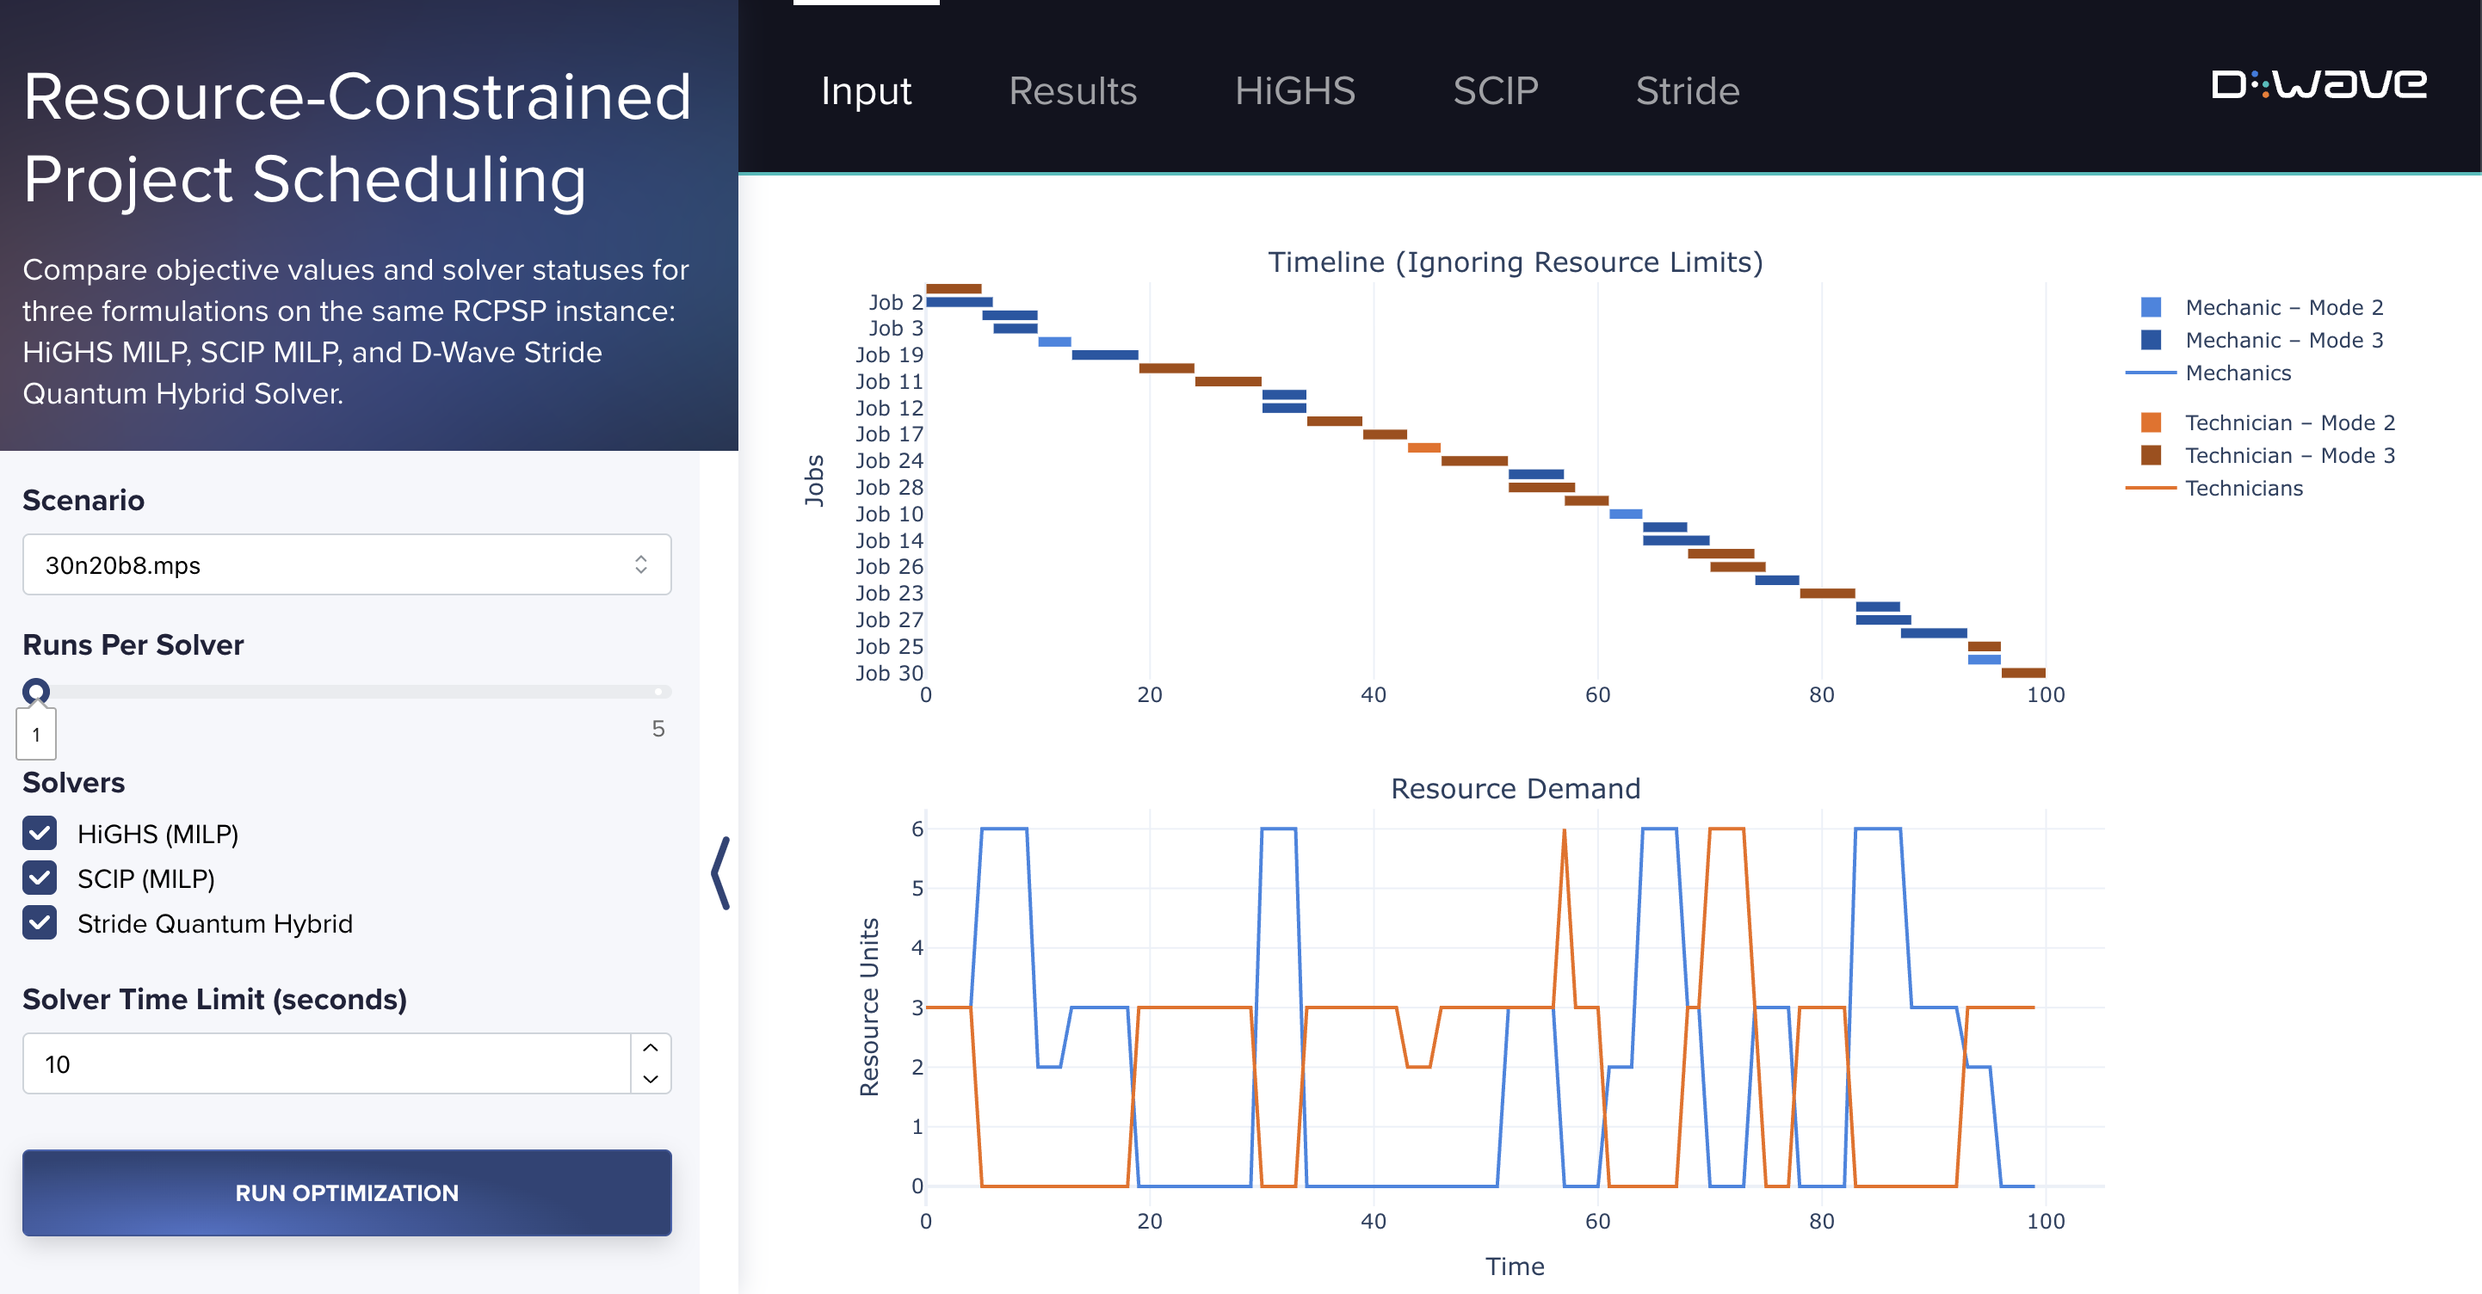
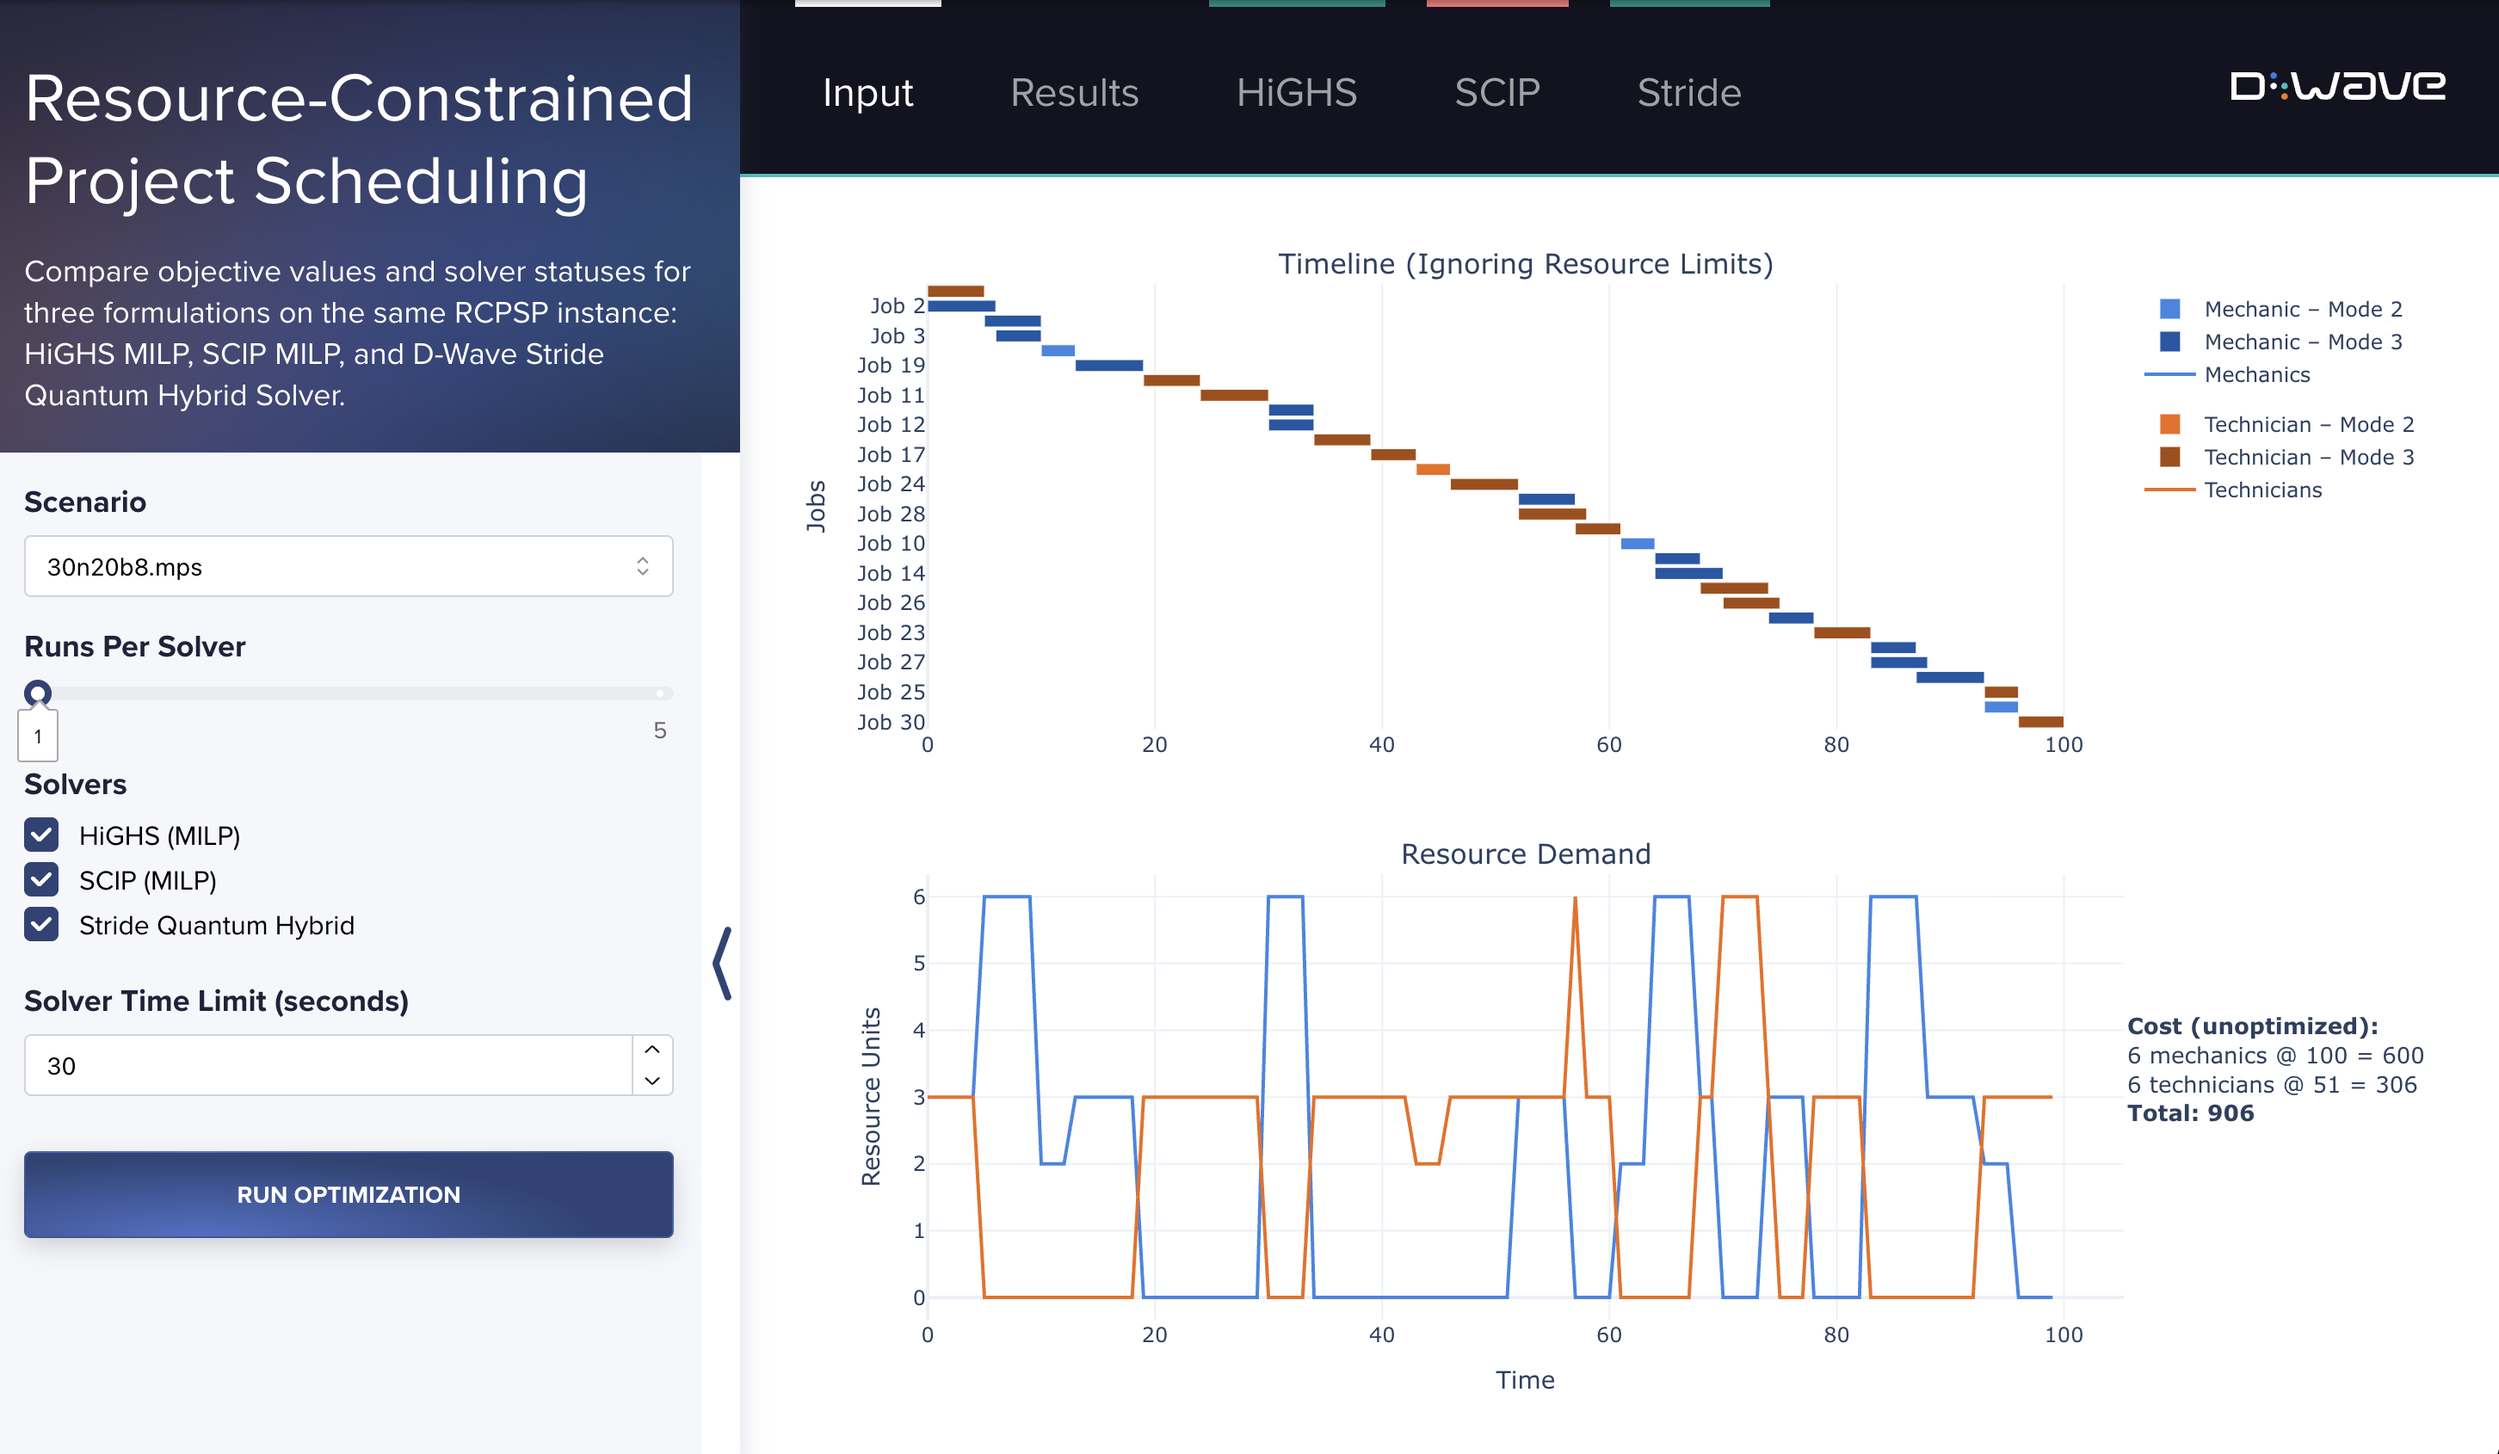
Adding cost comparison

diff --git a/assets/demo.css b/assets/demo.css
@@ -73,21 +73,6 @@ custom CSS can be added below.
     font-weight: 500;
 }
 
-.results-layout {
-    display: flex;
-    gap: 2rem;
-    align-items: flex-start;
-}
-
-.results-layout__graph {
-    flex: 1 1 0;
-    min-width: 0;
-}
-
-.results-layout__table {
-    flex: 0 0 auto;
-}
-
 .row-highlight-best {
     background-color: rgba(23, 190, 187, 0.42);
 }

diff --git a/src/plot.py b/src/plot.py
@@ -15,6 +15,7 @@
 from __future__ import annotations
 
 from collections import defaultdict, deque
+import math
 from pathlib import Path
 
 import plotly.graph_objects as go
@@ -41,6 +42,28 @@ _SOLVER_COLORS = {
     "SCIP": "#2d4376",
     "Stride": "#17BEBB",
 }
+
+
+def _hiring_cost_text(r_m: int, r_t: int, mech_rate: float, tech_rate: float) -> str:
+    """Return an HTML hiring cost breakdown for use in a Plotly annotation.
+
+    Args:
+        r_m: Number of mechanics hired.
+        r_t: Number of technicians hired.
+        mech_rate: Cost per mechanic.
+        tech_rate: Cost per technician.
+
+    Returns:
+        A three-line HTML string with per-resource costs and a bold total.
+    """
+    mech_cost = int(r_m * mech_rate)
+    tech_cost = int(r_t * tech_rate)
+    total = mech_cost + tech_cost
+    return (
+        f"{r_m} mechanics @ {int(mech_rate)} = {mech_cost}<br>"
+        f"{r_t} technicians @ {int(tech_rate)} = {tech_cost}<br>"
+        f"<b>Total: {total}</b>"
+    )
 
 
 def _choose_business_mode(job: int, profile: dict) -> int:
@@ -183,6 +206,10 @@ def build_input_graph(input_path: str) -> go.Figure:
             mech_demand[t] += mech_use
             tech_demand[t] += tech_use
 
+    hire_rates = profile.get("hire_rates", {"Mechaniker": 100.0, "Techniker": 51.0})
+    r_m = math.ceil(max(mech_demand, default=0))
+    r_t = math.ceil(max(tech_demand, default=0))
+
     fig = make_subplots(
         rows=2,
         cols=1,
@@ -269,7 +296,7 @@ def build_input_graph(input_path: str) -> go.Figure:
 
     fig.update_layout(
         template="plotly_white",
-        margin={"l": 20, "r": 20, "t": 30, "b": 20},
+        margin={"l": 20, "r": 20, "t": 30, "b": 90},
         paper_bgcolor="white",
         plot_bgcolor="white",
         showlegend=True,
@@ -286,6 +313,21 @@ def build_input_graph(input_path: str) -> go.Figure:
         categoryarray=[f"Job {job}" for job in reversed(jobs_sorted)],
     )
     fig.update_yaxes(title_text="Resource Units", row=2, col=1)
+    fig.add_annotation(
+        text=(
+            "<b>Cost (unoptimized):</b><br>"
+            + _hiring_cost_text(r_m, r_t, hire_rates["Mechaniker"], hire_rates["Techniker"])
+        ),
+        xref="paper",
+        yref="paper",
+        x=1,
+        y=0.3,
+        showarrow=False,
+        align="left",
+        font={"size": 13},
+        xanchor="left",
+        yanchor="top",
+    )
 
     return fig
 
@@ -393,7 +435,7 @@ def build_comparison_graph(
     fig.update_layout(
         template="plotly_white",
         height=380,
-        margin={"l": 20, "r": 20, "t": 40, "b": 20},
+        margin={"l": 20, "r": 20, "t": 30, "b": 20},
         paper_bgcolor="white",
         plot_bgcolor="white",
         legend={"orientation": "h", "y": 1.15, "x": 0},
@@ -456,6 +498,10 @@ def build_solution_graph(
         for t in range(s_t, min(f_t, len(mech_demand))):
             mech_demand[t] += mech_use
             tech_demand[t] += tech_use
+
+    hire_rates = profile.get("hire_rates", {"Mechaniker": 100.0, "Techniker": 51.0})
+    r_m = math.ceil(max(mech_demand, default=0))
+    r_t = math.ceil(max(tech_demand, default=0))
 
     fig = make_subplots(
         rows=2,
@@ -544,7 +590,7 @@ def build_solution_graph(
     fig.update_layout(
         title=title,
         template="plotly_white",
-        margin={"l": 20, "r": 20, "t": 40, "b": 20},
+        margin={"l": 20, "r": 20, "t": 40, "b": 90},
         paper_bgcolor="white",
         plot_bgcolor="white",
         showlegend=True,
@@ -561,5 +607,20 @@ def build_solution_graph(
         categoryarray=[f"Job {job}" for job in reversed(jobs_sorted)],
     )
     fig.update_yaxes(title_text="Resource Units", row=2, col=1)
+    fig.add_annotation(
+        text=(
+            "<b>Hiring cost (optimized):</b><br>"
+            + _hiring_cost_text(r_m, r_t, hire_rates["Mechaniker"], hire_rates["Techniker"])
+        ),
+        xref="paper",
+        yref="paper",
+        x=1,
+        y=0.3,
+        showarrow=False,
+        align="left",
+        font={"size": 13},
+        xanchor="left",
+        yanchor="top",
+    )
 
     return fig

diff --git a/demo_interface.py b/demo_interface.py
@@ -363,6 +363,9 @@ def comparison_summary_table(
     summary_rows: list[dict],
     min_energy: int | float | None,
     known_optimal: int | float | None,
+    solver_peaks: dict[str, tuple[int, int]] | None = None,
+    mech_rate: int = 100,
+    tech_rate: int = 51,
 ) -> html.Table:
     """Build the highlighted Comparison Summary table.
 
@@ -375,6 +378,10 @@ def comparison_summary_table(
             row highlighting. Pass ``None`` if no feasible solutions exist.
         known_optimal: The known optimal objective value for the instance, or
             ``None`` if unknown.
+        solver_peaks: Mapping of formulation label → ``(peak_mechanics, peak_technicians)``
+            used to render the cost breakdown columns. Pass ``None`` to omit.
+        mech_rate: Cost per mechanic (default 100).
+        tech_rate: Cost per technician (default 51).
 
     Returns:
         An html.Table with styled rows and an ``(optimal)`` annotation where
@@ -396,7 +403,24 @@ def comparison_summary_table(
             return "row-highlight-best"
         return ""
 
-    headers = ["Formulation", "Runs", "OK Runs", "Best Energy", "Avg Energy"]
+    def fmt_peak(formulation: str, idx: int, rate: int) -> str:
+        if solver_peaks is None:
+            return "–"
+        peaks = solver_peaks.get(formulation)
+        if peaks is None:
+            return "–"
+        count = peaks[idx]
+        return f"{count * rate}"
+
+    headers = [
+        "Formulation",
+        "Runs",
+        "OK Runs",
+        "Mechanics Cost",
+        "Technicians Cost",
+        "Best Energy",
+        "Avg Energy",
+    ]
     return html.Table(
         className="problem-details-table",
         children=[
@@ -409,6 +433,8 @@ def comparison_summary_table(
                             html.Td(str(row["formulation"])),
                             html.Td(str(row["runs"])),
                             html.Td(str(row["ok_runs"])),
+                            html.Td(fmt_peak(row["formulation"], 0, mech_rate)),
+                            html.Td(fmt_peak(row["formulation"], 1, tech_rate)),
                             html.Td(fmt_energy(row["best_energy"])),
                             html.Td(str(row["avg_energy"])),
                         ],
@@ -436,15 +462,14 @@ def results_layout(comparison_element: dcc.Graph | html.H4, summary_table: html.
         className="results-layout",
         children=[
             html.Div(
-                className="results-layout__graph",
-                children=comparison_element,
-            ),
-            html.Div(
                 className="results-layout__table",
                 children=[
-                    html.H3("Comparison Summary"),
                     summary_table,
                 ],
+            ),
+            html.Div(
+                className="results-layout__graph",
+                children=comparison_element,
             ),
         ],
     )

diff --git a/demo_callbacks.py b/demo_callbacks.py
@@ -14,6 +14,7 @@
 
 from __future__ import annotations
 
+import math
 from typing import NamedTuple
 
 import dash
@@ -33,7 +34,8 @@ from demo_interface import (
 )
 from src.demo_enums import SolverType
 from src.demo_runner import compare_formulations, summarize_runs
-from src.plot import build_comparison_graph, build_input_graph, build_solution_graph
+from src.plot import _compute_demand, build_comparison_graph, build_input_graph, build_solution_graph
+from src.utils import parse_mps_structure
 
 
 @dash.callback(
@@ -564,7 +566,30 @@ def render_aggregate_results(
     ]
     min_energy = min(ok_energies) if ok_energies else None
 
-    summary_table = comparison_summary_table(summary_rows, min_energy, known_optimal)
+    # Compute per-solver peak mechanics/technicians for the cost breakdown table.
+    _label_map = {
+        "HiGHS": SolverType.HIGHS.label,
+        "SCIP": SolverType.SCIP.label,
+        "Stride": SolverType.STRIDE.label,
+    }
+    solver_peaks: dict[str, tuple[int, int]] = {}
+    mech_rate = 100
+    tech_rate = 51
+    if solver_schedules and selected_input:
+        _profile = parse_mps_structure(selected_input)
+        _hire_rates = _profile.get("hire_rates", {"Mechaniker": 100.0, "Techniker": 51.0})
+        mech_rate = int(_hire_rates["Mechaniker"]) or 100
+        tech_rate = int(_hire_rates["Techniker"]) or 51
+        for _store_name, (_starts, _modes) in solver_schedules.items():
+            _mech, _tech, _ = _compute_demand(_profile, _starts, _modes)
+            _r_m = math.ceil(max(_mech, default=0))
+            _r_t = math.ceil(max(_tech, default=0))
+            _label = _label_map.get(_store_name, _store_name)
+            solver_peaks[_label] = (_r_m, _r_t)
+
+    summary_table = comparison_summary_table(
+        summary_rows, min_energy, known_optimal, solver_peaks, mech_rate, tech_rate
+    )
     fig = build_comparison_graph(selected_input, solver_schedules) if solver_schedules else None
     results = results_layout(comparison_panel(fig), summary_table)
 

diff --git a/src/utils.py b/src/utils.py
@@ -86,6 +86,7 @@ def parse_mps_structure(input_path: str) -> dict:
         "capacities": {"Mechaniker": 0.0, "Techniker": 0.0},
         "lower_bounds": {},
         "upper_bounds": {},
+        "hire_rates": {"Mechaniker": 0.0, "Techniker": 0.0},
     }
     path = Path(input_path)
     if not path.exists() or not path.is_file():
@@ -145,10 +146,19 @@ def parse_mps_structure(input_path: str) -> dict:
     rm_use: dict = defaultdict(float)
     rt_use: dict = defaultdict(float)
     x_pattern = re.compile(r"x_(\d+)_(\d+)_(\d+)")
+    hire_rates: dict[str, float] = {}
 
     for line in columns_lines:
         tokens = line.split()
         if len(tokens) < 3:
+            continue
+        if tokens[0] in ("R_Mechaniker", "R_Techniker"):
+            for i in range(1, len(tokens) - 1, 2):
+                if tokens[i] == "Obj":
+                    try:
+                        hire_rates[tokens[0]] = float(tokens[i + 1])
+                    except ValueError:
+                        pass
             continue
         m_var = x_pattern.match(tokens[0])
         if not m_var:
@@ -208,4 +218,8 @@ def parse_mps_structure(input_path: str) -> dict:
         "capacities": capacities,
         "lower_bounds": lower_bounds,
         "upper_bounds": upper_bounds,
+        "hire_rates": {
+            "Mechaniker": hire_rates.get("R_Mechaniker", 0.0),
+            "Techniker": hire_rates.get("R_Techniker", 0.0),
+        },
     }
